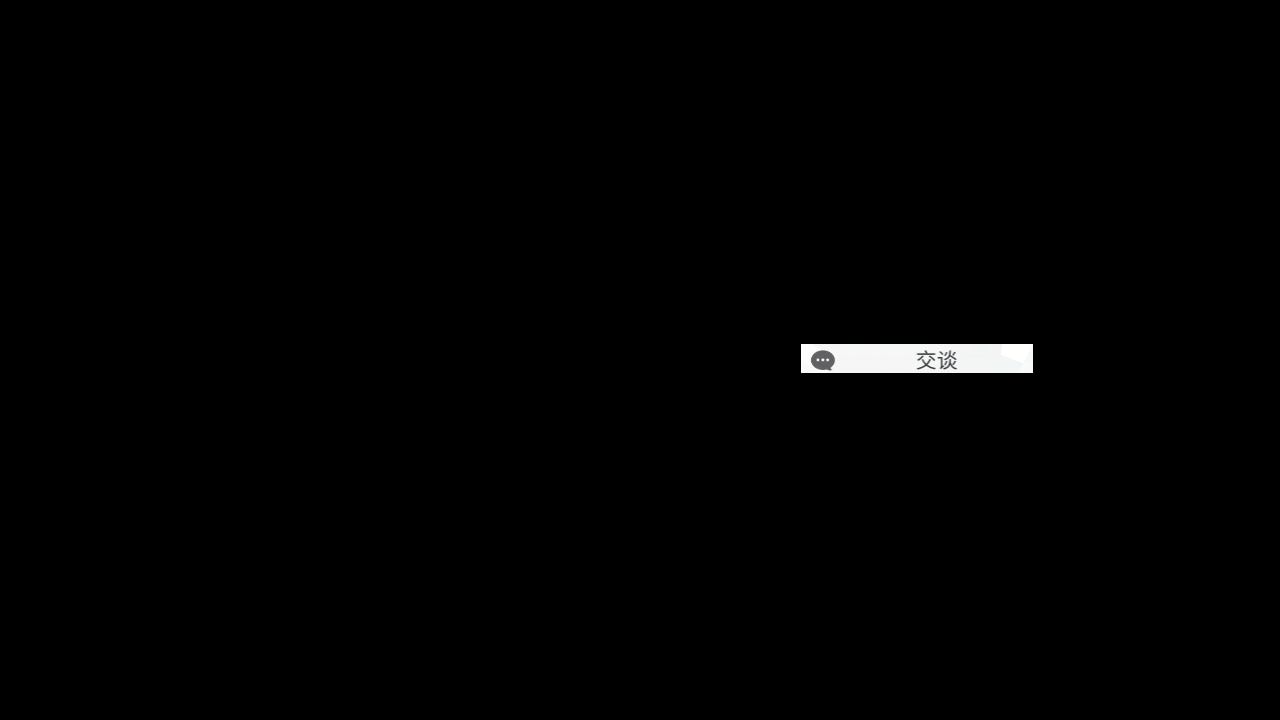
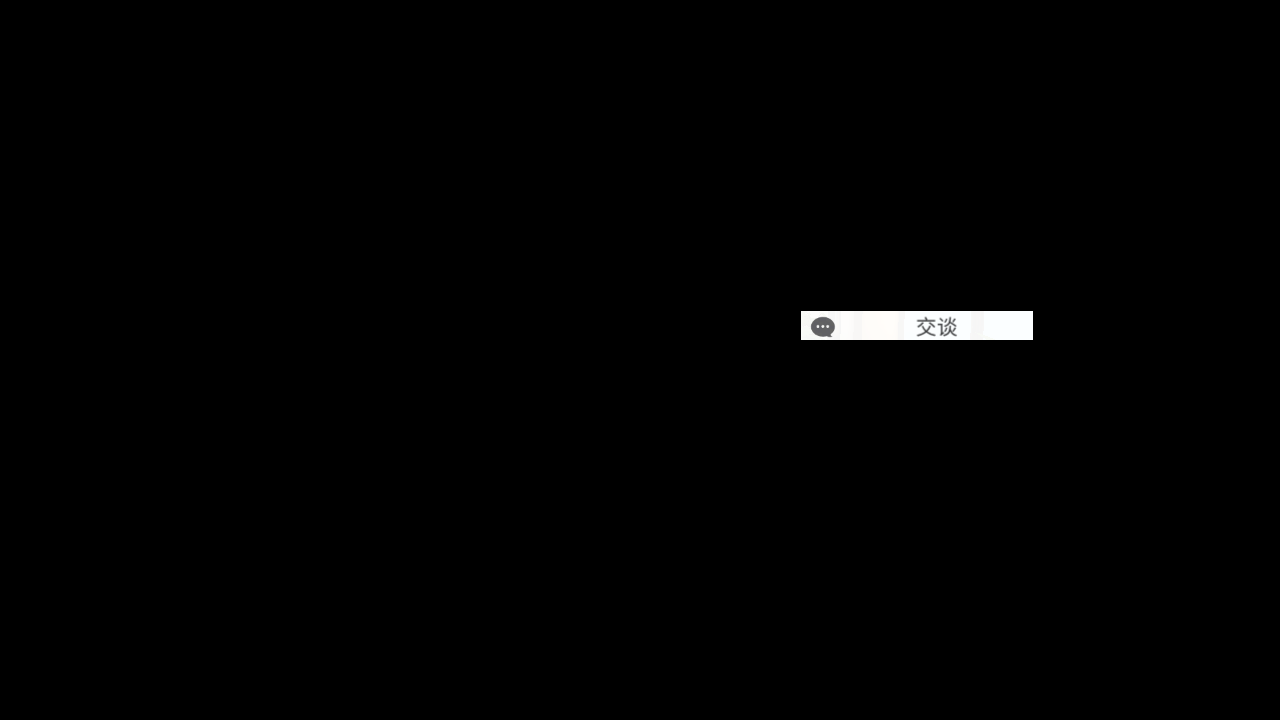
fix(island): 修正港口商区路线完成识别资源 (#395)
- 更新 ROUTE_PORT_BUSINESS_COMPLETE 资源图，匹配当前港口商区路线完成入口

- 同步按钮识别区域与平均颜色，避免沿用旧位置导致误判

Changed region(s): [[0.625, 0.4278, 0.8125, 0.5194]]

diff --git a/module/island_daily_interact/assets.py b/module/island_daily_interact/assets.py
@@ -23,7 +23,7 @@ ROUTE_ASSEMBLY_COMPLETE = Button(area={'cn': (801, 344, 1033, 373), 'en': (801, 
 ROUTE_BUSINESS_NURSERY_COMPLETE = Button(area={'cn': (801, 312, 1033, 344), 'en': (801, 312, 1033, 344), 'jp': (801, 312, 1033, 344), 'tw': (801, 312, 1033, 344)}, color={'cn': (233, 235, 233), 'en': (233, 235, 233), 'jp': (233, 235, 233), 'tw': (233, 235, 233)}, button={'cn': (801, 312, 1033, 344), 'en': (801, 312, 1033, 344), 'jp': (801, 312, 1033, 344), 'tw': (801, 312, 1033, 344)}, file={'cn': './assets/cn/island_daily_interact/ROUTE_BUSINESS_NURSERY_COMPLETE.png', 'en': './assets/cn/island_daily_interact/ROUTE_BUSINESS_NURSERY_COMPLETE.png', 'jp': './assets/cn/island_daily_interact/ROUTE_BUSINESS_NURSERY_COMPLETE.png', 'tw': './assets/cn/island_daily_interact/ROUTE_BUSINESS_NURSERY_COMPLETE.png'})
 ROUTE_JUU_NURSERY_COMPLETE = Button(area={'cn': (801, 344, 1033, 373), 'en': (801, 344, 1033, 373), 'jp': (801, 344, 1033, 373), 'tw': (801, 344, 1033, 373)}, color={'cn': (232, 233, 233), 'en': (232, 233, 233), 'jp': (232, 233, 233), 'tw': (232, 233, 233)}, button={'cn': (801, 344, 1033, 373), 'en': (801, 344, 1033, 373), 'jp': (801, 344, 1033, 373), 'tw': (801, 344, 1033, 373)}, file={'cn': './assets/cn/island_daily_interact/ROUTE_JUU_NURSERY_COMPLETE.png', 'en': './assets/cn/island_daily_interact/ROUTE_JUU_NURSERY_COMPLETE.png', 'jp': './assets/cn/island_daily_interact/ROUTE_JUU_NURSERY_COMPLETE.png', 'tw': './assets/cn/island_daily_interact/ROUTE_JUU_NURSERY_COMPLETE.png'})
 ROUTE_PLAIN_COMPLETE = Button(area={'cn': (801, 344, 1033, 373), 'en': (801, 344, 1033, 373), 'jp': (801, 344, 1033, 373), 'tw': (801, 344, 1033, 373)}, color={'cn': (232, 233, 233), 'en': (232, 233, 233), 'jp': (232, 233, 233), 'tw': (232, 233, 233)}, button={'cn': (801, 344, 1033, 373), 'en': (801, 344, 1033, 373), 'jp': (801, 344, 1033, 373), 'tw': (801, 344, 1033, 373)}, file={'cn': './assets/cn/island_daily_interact/ROUTE_PLAIN_COMPLETE.png', 'en': './assets/cn/island_daily_interact/ROUTE_PLAIN_COMPLETE.png', 'jp': './assets/cn/island_daily_interact/ROUTE_PLAIN_COMPLETE.png', 'tw': './assets/cn/island_daily_interact/ROUTE_PLAIN_COMPLETE.png'})
-ROUTE_PORT_BUSINESS_COMPLETE = Button(area={'cn': (801, 344, 1033, 373), 'en': (801, 344, 1033, 373), 'jp': (801, 344, 1033, 373), 'tw': (801, 344, 1033, 373)}, color={'cn': (232, 233, 233), 'en': (232, 233, 233), 'jp': (232, 233, 233), 'tw': (232, 233, 233)}, button={'cn': (801, 344, 1033, 373), 'en': (801, 344, 1033, 373), 'jp': (801, 344, 1033, 373), 'tw': (801, 344, 1033, 373)}, file={'cn': './assets/cn/island_daily_interact/ROUTE_PORT_BUSINESS_COMPLETE.png', 'en': './assets/cn/island_daily_interact/ROUTE_PORT_BUSINESS_COMPLETE.png', 'jp': './assets/cn/island_daily_interact/ROUTE_PORT_BUSINESS_COMPLETE.png', 'tw': './assets/cn/island_daily_interact/ROUTE_PORT_BUSINESS_COMPLETE.png'})
+ROUTE_PORT_BUSINESS_COMPLETE = Button(area={'cn': (801, 311, 1033, 340), 'en': (801, 311, 1033, 340), 'jp': (801, 311, 1033, 340), 'tw': (801, 311, 1033, 340)}, color={'cn': (236, 237, 237), 'en': (236, 237, 237), 'jp': (236, 237, 237), 'tw': (236, 237, 237)}, button={'cn': (801, 311, 1033, 340), 'en': (801, 311, 1033, 340), 'jp': (801, 311, 1033, 340), 'tw': (801, 311, 1033, 340)}, file={'cn': './assets/cn/island_daily_interact/ROUTE_PORT_BUSINESS_COMPLETE.png', 'en': './assets/cn/island_daily_interact/ROUTE_PORT_BUSINESS_COMPLETE.png', 'jp': './assets/cn/island_daily_interact/ROUTE_PORT_BUSINESS_COMPLETE.png', 'tw': './assets/cn/island_daily_interact/ROUTE_PORT_BUSINESS_COMPLETE.png'})
 ROUTE_PORT_COMPLETE = Button(area={'cn': (801, 344, 1033, 373), 'en': (801, 344, 1033, 373), 'jp': (801, 344, 1033, 373), 'tw': (801, 344, 1033, 373)}, color={'cn': (232, 233, 233), 'en': (232, 233, 233), 'jp': (232, 233, 233), 'tw': (232, 233, 233)}, button={'cn': (801, 344, 1033, 373), 'en': (801, 344, 1033, 373), 'jp': (801, 344, 1033, 373), 'tw': (801, 344, 1033, 373)}, file={'cn': './assets/cn/island_daily_interact/ROUTE_PORT_COMPLETE.png', 'en': './assets/cn/island_daily_interact/ROUTE_PORT_COMPLETE.png', 'jp': './assets/cn/island_daily_interact/ROUTE_PORT_COMPLETE.png', 'tw': './assets/cn/island_daily_interact/ROUTE_PORT_COMPLETE.png'})
 TEMPLATE_BUSINESS_DELIVERY_TASK_ICON = Template(file={'cn': './assets/cn/island_daily_interact/TEMPLATE_BUSINESS_DELIVERY_TASK_ICON.png', 'en': './assets/cn/island_daily_interact/TEMPLATE_BUSINESS_DELIVERY_TASK_ICON.png', 'jp': './assets/cn/island_daily_interact/TEMPLATE_BUSINESS_DELIVERY_TASK_ICON.png', 'tw': './assets/cn/island_daily_interact/TEMPLATE_BUSINESS_DELIVERY_TASK_ICON.png'})
 TEMPLATE_JUU_EXPRESS_TASK_ICON = Template(file={'cn': './assets/cn/island_daily_interact/TEMPLATE_JUU_EXPRESS_TASK_ICON.png', 'en': './assets/cn/island_daily_interact/TEMPLATE_JUU_EXPRESS_TASK_ICON.png', 'jp': './assets/cn/island_daily_interact/TEMPLATE_JUU_EXPRESS_TASK_ICON.png', 'tw': './assets/cn/island_daily_interact/TEMPLATE_JUU_EXPRESS_TASK_ICON.png'})